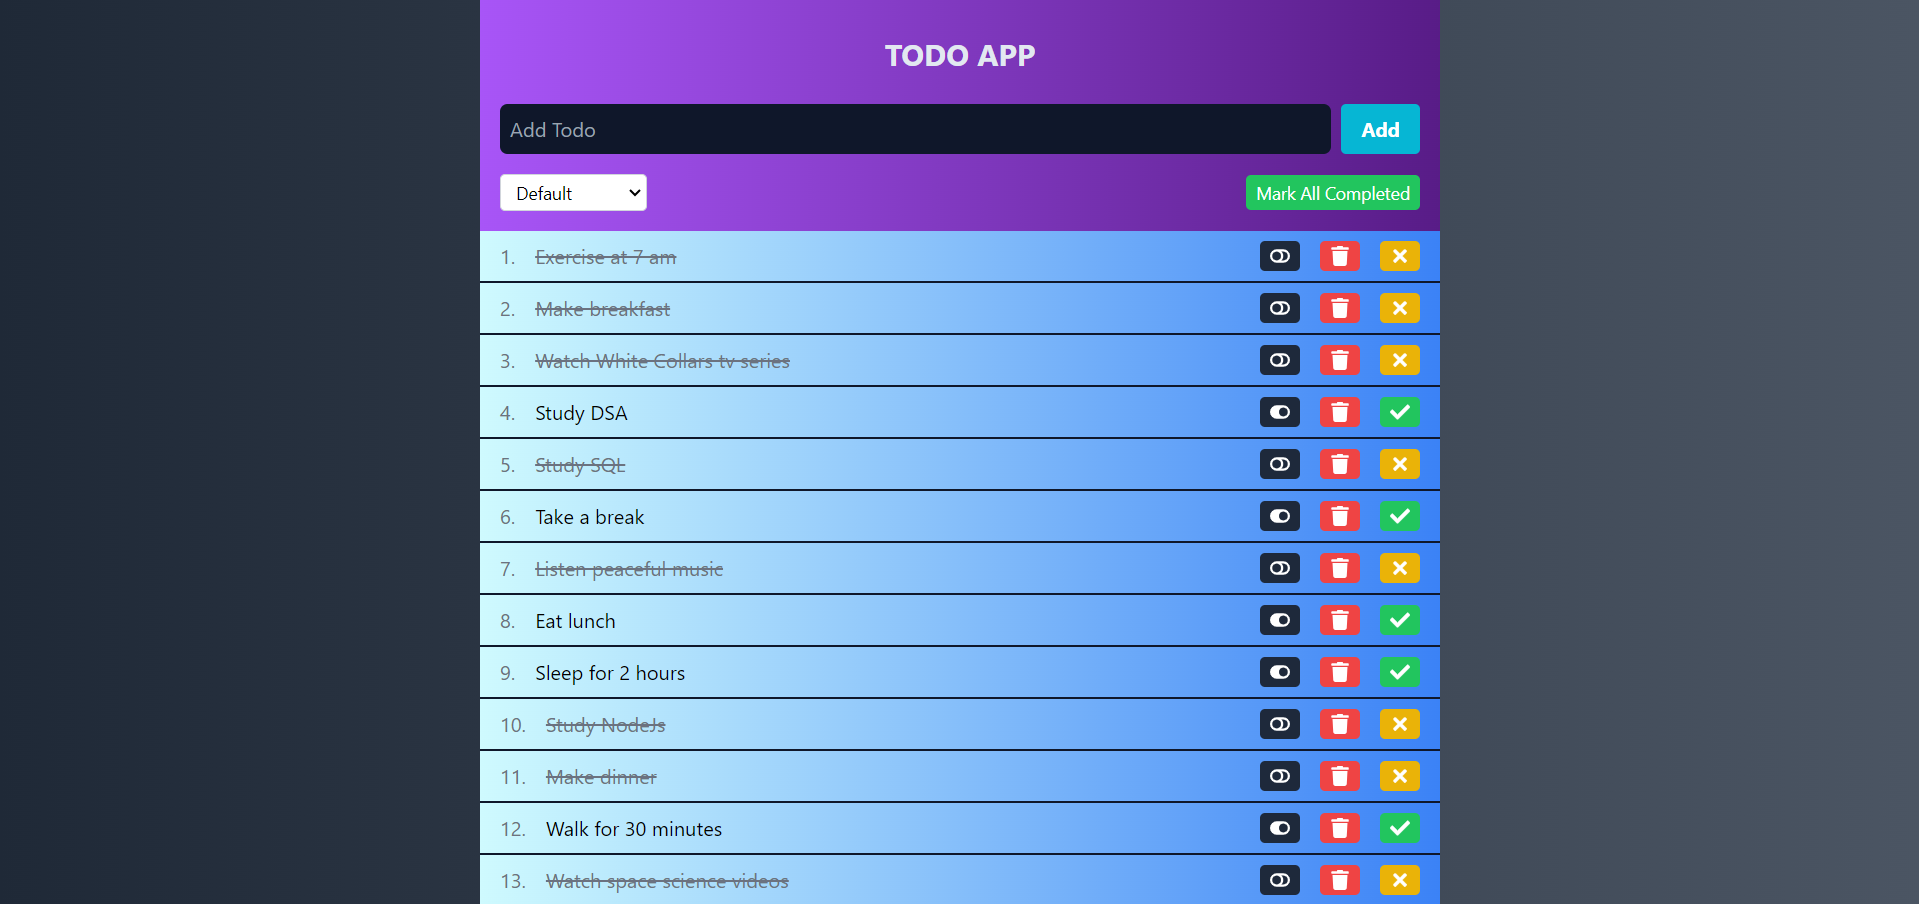
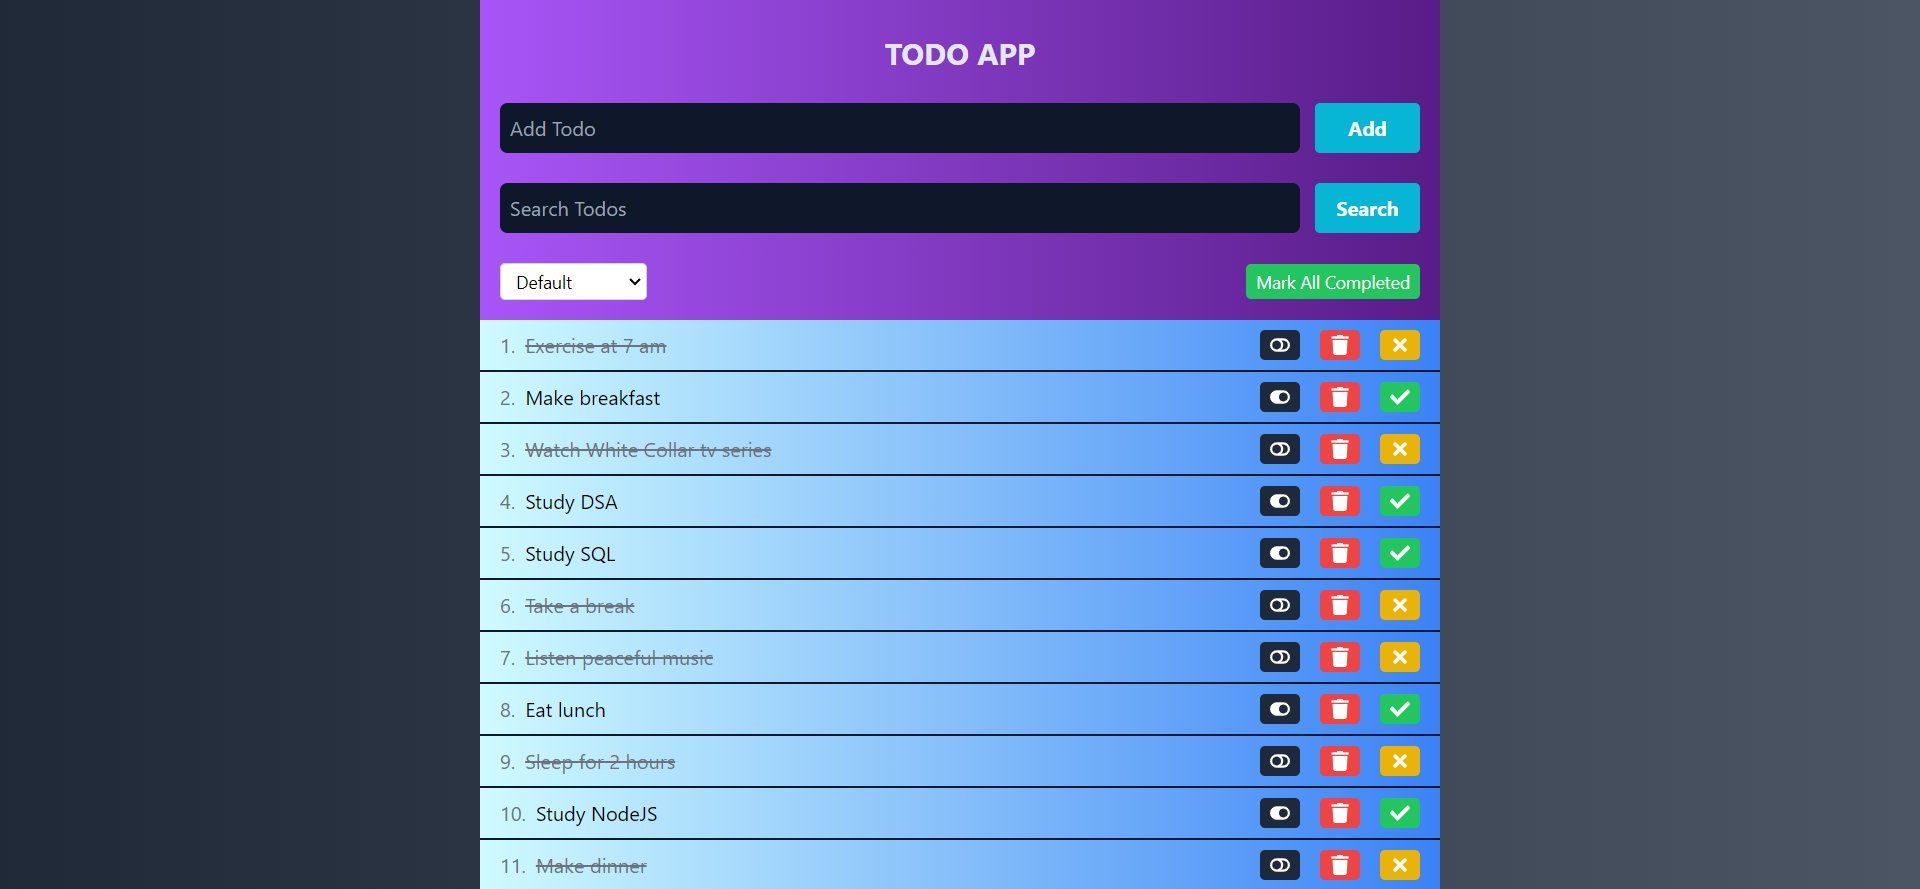
Added search feature

Changed region(s): [[0.246, 0.0911, 0.7686, 1.0], [0.246, 0.1215, 0.3075, 0.1519]]

diff --git a/src/components/Todo.jsx b/src/components/Todo.jsx
@@ -2,13 +2,15 @@ import React, { useState } from "react";
 import { useDispatch, useSelector } from "react-redux";
 import TodoList from "./TodoList";
 import FilterButtons from "./FilterButtons";
-import { addTodo } from "../redux/actions";
+import { BsSearch, BsPlus } from "react-icons/bs";
+import { addTodo, updateSearchTerm } from "../redux/actions";
 
 const Todo = () => {
   const todos = useSelector((state) => state.todos);
   const filter = useSelector((state) => state.filter);
   const dispatch = useDispatch();
   const [newTodoText, setNewTodoText] = useState("");
+  const [searchTerm, setSearchTerm] = useState("");
 
   const handleAddTodo = (text) => {
     dispatch(addTodo(text));
@@ -21,13 +23,18 @@ const Todo = () => {
     }
   };
 
+  const handleSearchChange = (value) => {
+    setSearchTerm(value);
+    dispatch(updateSearchTerm(value));
+  };
+
   return (
     <>
       <div className="max-w-3xl mx-auto  p-4  bg-gradient-to-r from-purple-500 to-purple-900">
         <h2 className="mt-3 mb-6 text-2xl font-bold text-slate-200 text-center uppercase">
           TODO APP
         </h2>
-        <div className="flex items-center justify-between gap-2 mb-4">
+        <div className="flex items-center justify-between gap-3 mb-6">
           <input
             id="addTodoInput"
             className=" w-[100%] p-2 rounded-md border-none ouline-none text-gray-400 bg-slate-900 focus:outline-none"
@@ -37,15 +44,30 @@ const Todo = () => {
             onChange={(e) => setNewTodoText(e.target.value)}
           />
           <button
-            className="border-none py-2 px-4 font-bold bg-cyan-500 text-white rounded hover:bg-cyan-600 focus:outline-none"
+            className="border-none min-w-[5.25rem] py-2 px-4 font-bold bg-cyan-500 text-white rounded hover:bg-cyan-600 focus:outline-none"
             onClick={handleAddTodoClick}
           >
             Add
           </button>
         </div>
+        <div className="flex items-center mb-6 gap-3">
+            <input
+              className="w-[100%] p-2 rounded-md border-none ouline-none text-gray-400 bg-slate-900 focus:outline-none"
+              type="text"
+              placeholder="Search Todos"
+              value={searchTerm}
+              onChange={(e) => handleSearchChange(e.target.value)}
+            />
+            <button className="border-none min-w-[5.25rem] py-2 px-4 font-bold bg-cyan-500 text-white rounded hover:bg-cyan-600 focus:outline-none">
+              {/* <BsSearch size={20} /> */}
+              Search
+            </button>
+          </div>
 
         <div className="flex flex-col sm:flex-row items-center justify-between gap-4">
+          
           <FilterButtons />
+         
         </div>
       </div>
       <TodoList />

diff --git a/src/redux/reducer.js b/src/redux/reducer.js
@@ -6,9 +6,10 @@ import {
   MARK_INCOMPLETE,
   FILTER_TODOS,
   MARK_ALL_COMPLETED,
+  UPDATE_SEARCH_TERM,
 } from "./actionTypes";
 
-const initialState = { todos: [], filter: "ALL" };
+const initialState = { todos: [], filter: "ALL", searchTerm: "" };
 
 const todoReducer = (state = initialState, action) => {
   switch (action.type) {
@@ -19,6 +20,7 @@ const todoReducer = (state = initialState, action) => {
           { text: action.payload.text, completed: false },
         ],
         filter: state.filter,
+        searchTerm: state.searchTerm,
       };
 
     case TOGGLE_TODO:
@@ -64,6 +66,12 @@ const todoReducer = (state = initialState, action) => {
         searchTerm: state.searchTerm,
       };
 
+    case UPDATE_SEARCH_TERM:
+      return {
+        todos: state.todos,
+        filter: state.filter,
+        searchTerm: action.payload.searchTerm,
+      };
 
     case MARK_ALL_COMPLETED:
       return {

diff --git a/src/components/TodoList.jsx b/src/components/TodoList.jsx
@@ -5,14 +5,16 @@ const TodoList = () => {
   const filteredTodos = useSelector((state) => {
     const todos = state.todos;
     const filter = state.filter;
+    const searchTerm = state.searchTerm.toLowerCase();
 
     return todos.filter((todo) => {
       const matchesFilter =
         (filter === "COMPLETED" && todo.completed) ||
         (filter === "INCOMPLETE" && !todo.completed) ||
         filter === "ALL";
+      const matchesSearch = todo.text.toLowerCase().includes(searchTerm);
 
-      return matchesFilter;
+      return matchesFilter && matchesSearch;
     });
   });
 

diff --git a/src/components/TodoItem.jsx b/src/components/TodoItem.jsx
@@ -19,7 +19,7 @@ const TodoItem = ({ todo, index }) => {
   return (
     <li className="flex  px-4 sm:items-center justify-between border-b-2 border-slate-900 py-2 gap-4  w-[100%]">
       <div className="flex items-center justify-start ">
-        <span className="mr-4  text-gray-500">{index + 1}.</span>
+        <span className="mr-2  text-gray-500">{index + 1}.</span>
         <span
           className={` break-all ${
             todo.completed ? "line-through text-gray-500" : ""

diff --git a/src/redux/actions.js b/src/redux/actions.js
@@ -6,6 +6,7 @@ import {
   MARK_INCOMPLETE,
   FILTER_TODOS,
   MARK_ALL_COMPLETED,
+  UPDATE_SEARCH_TERM,
 } from "./actionTypes";
 
 export const addTodo = (text) => ({
@@ -40,6 +41,11 @@ export const filterTodos = (filter) => ({
 
 export const markAllCompleted = () => ({
   type: MARK_ALL_COMPLETED,
+});
+
+export const updateSearchTerm = (searchTerm) => ({
+  type: UPDATE_SEARCH_TERM,
+  payload: { searchTerm },
 });
 
 

diff --git a/src/redux/actionTypes.js b/src/redux/actionTypes.js
@@ -5,4 +5,5 @@ export const MARK_COMPLETED = "MARK_COMPLETED";
 export const MARK_INCOMPLETE = "MARK_INCOMPLETE";
 export const FILTER_TODOS = "FILTER_TODOS";
 export const MARK_ALL_COMPLETED = "MARK_ALL_COMPLETED";
+export const UPDATE_SEARCH_TERM = 'UPDATE_SEARCH_TERM';
 
